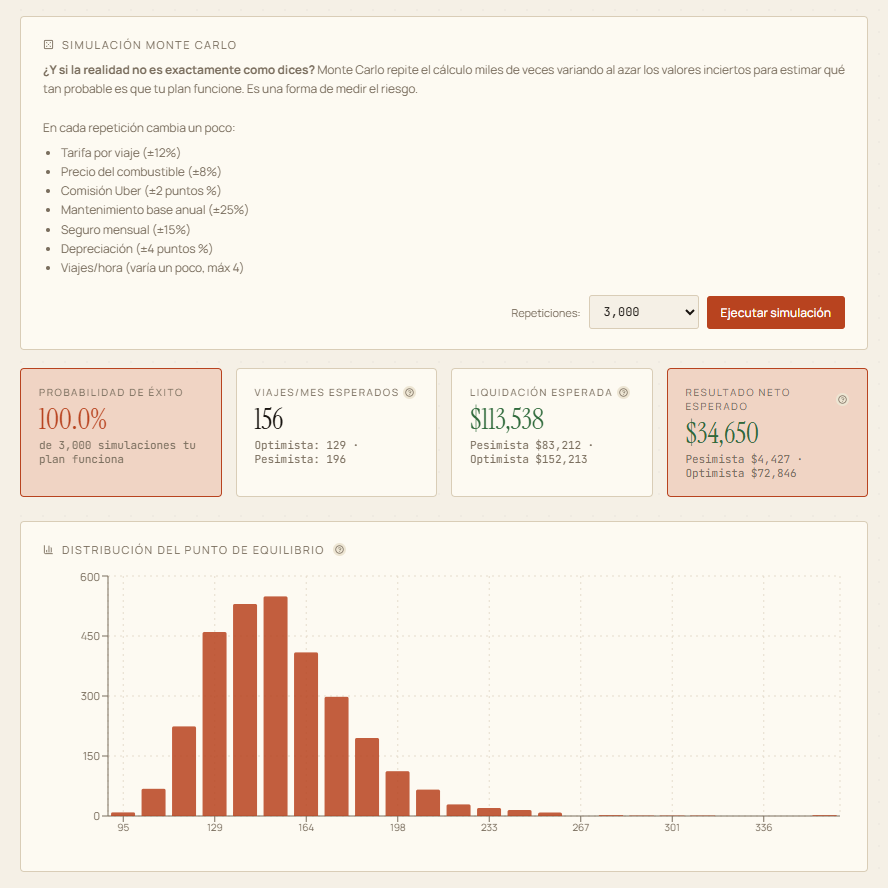
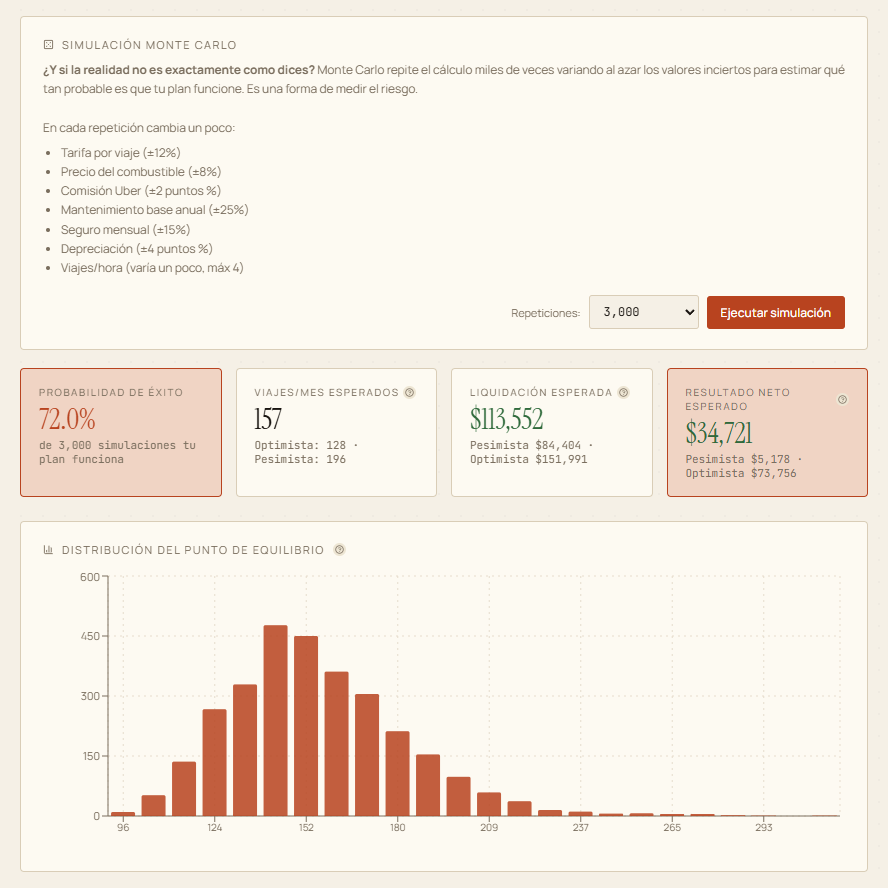
Polish README naming, links and limitations; recapture Monte Carlo
Match the header and tab-title names exactly, use link text for the
demo, drop the TypeScript badge and the hosting-provider bullet, shorten
the hardcoded-year note, tag ARCHITECTURE.md code fences, and show a
part-time scenario in the Monte Carlo screenshot.

diff --git a/README.md b/README.md
@@ -4,17 +4,17 @@
 
 It is for someone in Mexico deciding whether to buy a car (new or used, cash or credit) and cover it by driving for a ride-hailing platform, or who just wants the real cost of owning it. You enter the car, the financing and your city; the app works out the month-by-month cash flow, how many trips and hours a week you need to break even, and how likely the plan is to hold up when fares, fuel and resale value move.
 
-![React 19](https://img.shields.io/badge/React-19-61DAFB?logo=react&logoColor=white) ![Vite 6](https://img.shields.io/badge/Vite-6-646CFF?logo=vite&logoColor=white) ![Recharts 2](https://img.shields.io/badge/Recharts-2-22B5BF) ![JavaScript](https://img.shields.io/badge/JavaScript-no%20TypeScript-F7DF1E?logo=javascript&logoColor=black)
+![React 19](https://img.shields.io/badge/React-19-61DAFB?logo=react&logoColor=white) ![Vite 6](https://img.shields.io/badge/Vite-6-646CFF?logo=vite&logoColor=white) ![Recharts 2](https://img.shields.io/badge/Recharts-2-22B5BF)
 
-**Live demo:** https://www.adriangaona.dev/demos/financial-sim/ · [Project page](https://www.adriangaona.dev/work/financial-sim)
+**[Live demo](https://www.adriangaona.dev/demos/financial-sim/)** · [Project page](https://www.adriangaona.dev/work/financial-sim)
 
-> **The UI is in Spanish on purpose.** The target user is in Mexico, so amounts are in MXN and the defaults (fares, fuel and electricity prices, platform commission, RESICO tax withholding) are Mexican. This README is in English. The app's own header calls it **AutoPilot**; the repo and portfolio call it Financial Sim.
+> **The UI is in Spanish on purpose.** The target user is in Mexico, so amounts are in MXN and the defaults (fares, fuel and electricity prices, platform commission, RESICO tax withholding) are Mexican. This README is in English. In the app, the header reads **Auto·Pilot** and the browser tab reads *Auto-Pilot Uber Car Simulator*; the repo and portfolio call it Financial Sim.
 
 ![Dashboard of the simulator: input sidebar on the left, a "Viable y manejable" verdict, and the purchase-decision summary with total cost of ownership, cost per km, equivalent annual cost, NPV and real credit cost cards](docs/screenshot-dashboard.png)
 
-| Sensitivity analysis | Monte Carlo |
+| Sensitivity analysis | Monte Carlo (part-time driver) |
 |---|---|
-| ![Sensitivity tab: tornado chart ranking how far each input moves the monthly break-even trips when it changes by 15 to 40 percent](docs/screenshot-sensitivity.png) | ![Monte Carlo tab after 3,000 runs: success probability, P10/P50/P90 for trips per month, liquidation value and net result, and a histogram of break-even trips](docs/screenshot-monte-carlo.png) |
+| ![Sensitivity tab: tornado chart ranking how far each input moves the monthly break-even trips when it changes by 15 to 40 percent](docs/screenshot-sensitivity.png) | ![Monte Carlo tab after 3,000 runs for the default car driven part-time (3 hours a day, 20 days a month): 72% probability that the plan works, P10/P50/P90 for trips per month, liquidation value and net result, and a histogram of break-even trips](docs/screenshot-monte-carlo.png) |
 
 ## Contents
 
@@ -46,7 +46,7 @@ It is for someone in Mexico deciding whether to buy a car (new or used, cash or 
 
 React 19, Vite 6, Recharts 2 and lucide-react, written in plain JavaScript (JSX) with no TypeScript.
 
-- **Static and client-only.** There is no backend. The build is a static bundle that nginx (see the `Dockerfile`) or any static host can serve, and your figures stay in your browser. The only third-party request the app makes is for three font families from Google Fonts.
+- **Static and client-only.** There is no backend. The build is a static bundle that nginx (see the `Dockerfile`) or any static host can serve, and your figures stay in your browser. The only third-party request the app itself makes is for three font families from Google Fonts.
 - **The model is separate from the UI.** `src/domain/` is plain JavaScript with no React imports, and `src/components/` only presents what it returns. That keeps the math runnable outside a browser and ready for unit tests. [docs/ARCHITECTURE.md](docs/ARCHITECTURE.md) has the layer map and the dependency rule.
 - **The copy is separate from the code.** Tooltip, glossary and source-label text live in `src/content/`, because the explanations are the product for someone who doesn't know finance.
 - **Storage can't break the app.** Every `localStorage` read and write is wrapped in `try/catch` (`src/storage/persistence.js`, `src/App.jsx`, `src/components/Sidebar.jsx`), so private mode or full storage only loses persistence, never the calculation.
@@ -144,13 +144,12 @@ Dockerfile                    build with Node, serve dist/ with nginx
 ## Limitations
 
 - **Spanish-only UI, MXN only, Mexico-specific defaults.** Car prices, city fares, fuel and electricity prices, the platform commission and the tax regimes are fixed Mexican numbers in `constants.js` and `defaults.js`, not live market data.
-- **The current year is hardcoded.** Year labels are `2025 + n` and car age is `2026 − model year` (`calculate.js:266` and `:316`, `depreciation.js:7`, `Report.jsx:14` and `:16`, plus the same pattern in `Dashboard.jsx` and `Comparison.jsx`). From 2027 on, the labels and used-car ages will be off by a year.
+- **Year labels and used-car ages assume 2026, so they drift from 2027.**
 - **No automated tests** (see [Tests](#tests)).
 - **One 840 kB JavaScript bundle** (about 235 kB gzipped) with no code splitting, and `vite build` warns about it.
 - **Monte Carlo runs on the main thread and is unseeded.** The page pauses during a run, and results vary from run to run.
 - **Simplified operating model.** Income is average fare × trips, a month is 30 days, and per-km maintenance assumes a 20,000 km/year baseline. The tool supports a decision; it is not financial advice.
 - **Imported cases are only as good as the LLM's answer.** The app lists the sources it gets back but cannot verify them.
-- **Hosted demo:** the demo site is served through Cloudflare, which injects its Web Analytics beacon into the page. That script is not part of this repo; running locally avoids it.
 
 ## Background
 

diff --git a/docs/ARCHITECTURE.md b/docs/ARCHITECTURE.md
@@ -8,7 +8,7 @@ your machine.
 
 ## Layers
 
-```
+```text
 src/
   main.jsx            entry point — mounts <App/>
   App.jsx             tab routing, top-level state, localStorage persistence
@@ -22,7 +22,7 @@ src/
 
 The dependency rule is one-directional:
 
-```
+```text
 components/ ──▶ domain/ ──▶ (nothing)
      │              ▲
      └──▶ content/ ─┘
